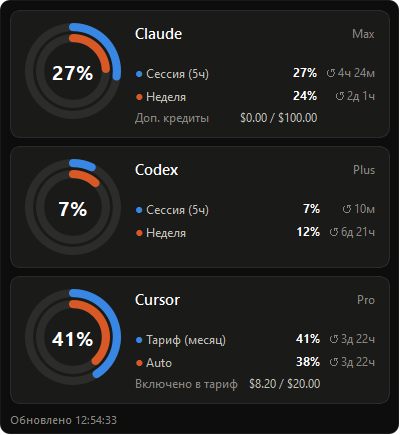
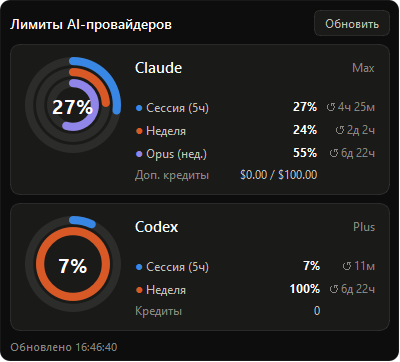
Hover panel: same header and refresh button as the tray dashboard

diff --git a/aibar/ui/widget.py b/aibar/ui/widget.py
@@ -9,8 +9,10 @@ from datetime import datetime
 from PySide6.QtCore import QPoint, Qt, QTimer, Signal
 from PySide6.QtGui import QAction, QColor, QPainter
 from PySide6.QtWidgets import (
+    QHBoxLayout,
     QLabel,
     QMenu,
+    QPushButton,
     QSizeGrip,
     QVBoxLayout,
     QWidget,
@@ -28,6 +30,7 @@ class HoverPanel(QWidget):
     """Extended info shown while the mouse is over the widget (or the panel)."""
 
     hover_changed = Signal(bool)
+    refresh_requested = Signal()
 
     def __init__(self, parent=None):
         super().__init__(parent)
@@ -45,7 +48,16 @@ class HoverPanel(QWidget):
             }}
             #cardTitle {{ color: {theme.TEXT_PRIMARY}; font-size: 15px; font-weight: 600; }}
             #cardPlan {{ color: {theme.TEXT_MUTED}; font-size: 12px; }}
+            #header {{ color: {theme.TEXT_PRIMARY}; font-size: 14px; font-weight: 600; }}
             #footer {{ color: {theme.TEXT_MUTED}; font-size: 11px; }}
+            QPushButton {{
+                background: {theme.SURFACE};
+                color: {theme.TEXT_SECONDARY};
+                border: 1px solid {theme.BORDER};
+                border-radius: 6px;
+                padding: 4px 10px;
+            }}
+            QPushButton:hover {{ color: {theme.TEXT_PRIMARY}; border-color: {theme.TEXT_MUTED}; }}
             """
         )
         self._cards: dict[str, ProviderCard] = {}
@@ -54,9 +66,19 @@ class HoverPanel(QWidget):
         self.footer = QLabel("")
         self.footer.setObjectName("footer")
 
+        header = QLabel("Лимиты AI-провайдеров")
+        header.setObjectName("header")
+        self.refresh_btn = QPushButton("Обновить")
+        self.refresh_btn.clicked.connect(self.refresh_requested)
+        top = QHBoxLayout()
+        top.addWidget(header)
+        top.addStretch()
+        top.addWidget(self.refresh_btn)
+
         layout = QVBoxLayout(self)
         layout.setContentsMargins(10, 10, 10, 8)
         layout.setSpacing(8)
+        layout.addLayout(top)
         layout.addLayout(self.cards_layout)
         layout.addWidget(self.footer)
 
@@ -153,6 +175,7 @@ class DesktopWidget(QWidget):
 
         self.panel = HoverPanel()
         self.panel.hover_changed.connect(self._on_panel_hover)
+        self.panel.refresh_requested.connect(self.refresh_requested)
         self._hide_timer = QTimer(self)
         self._hide_timer.setSingleShot(True)
         self._hide_timer.setInterval(350)